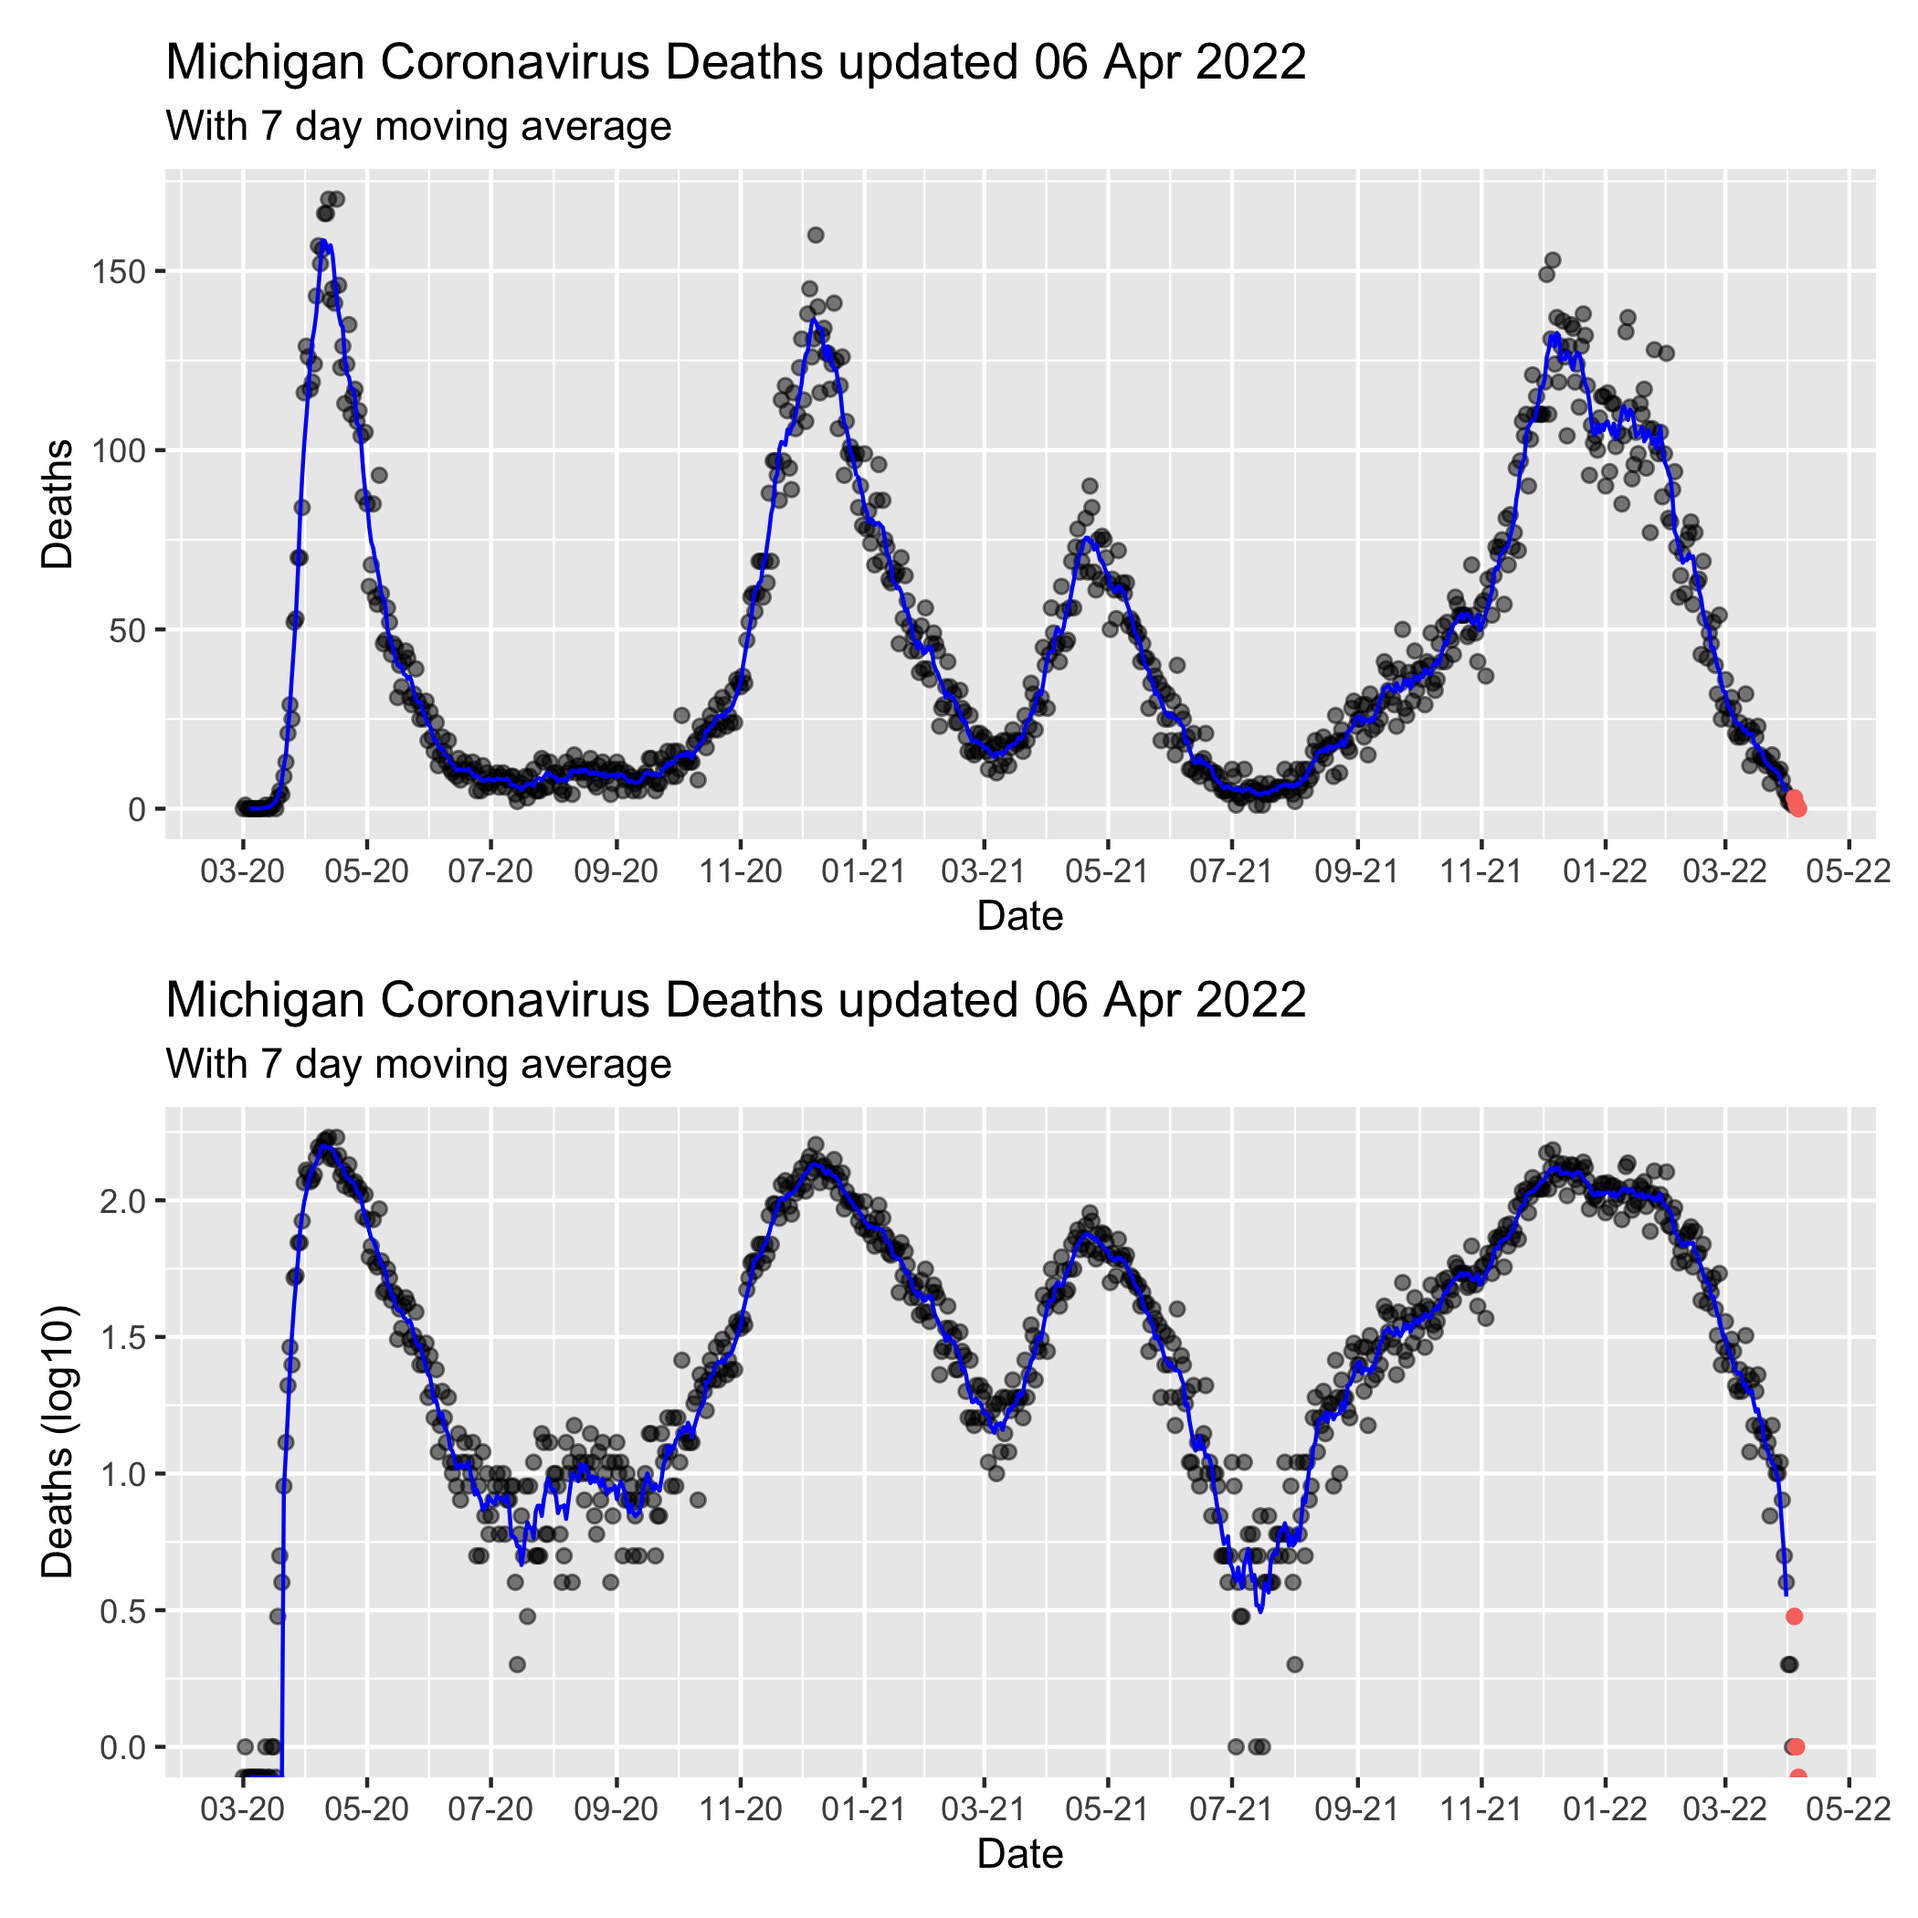
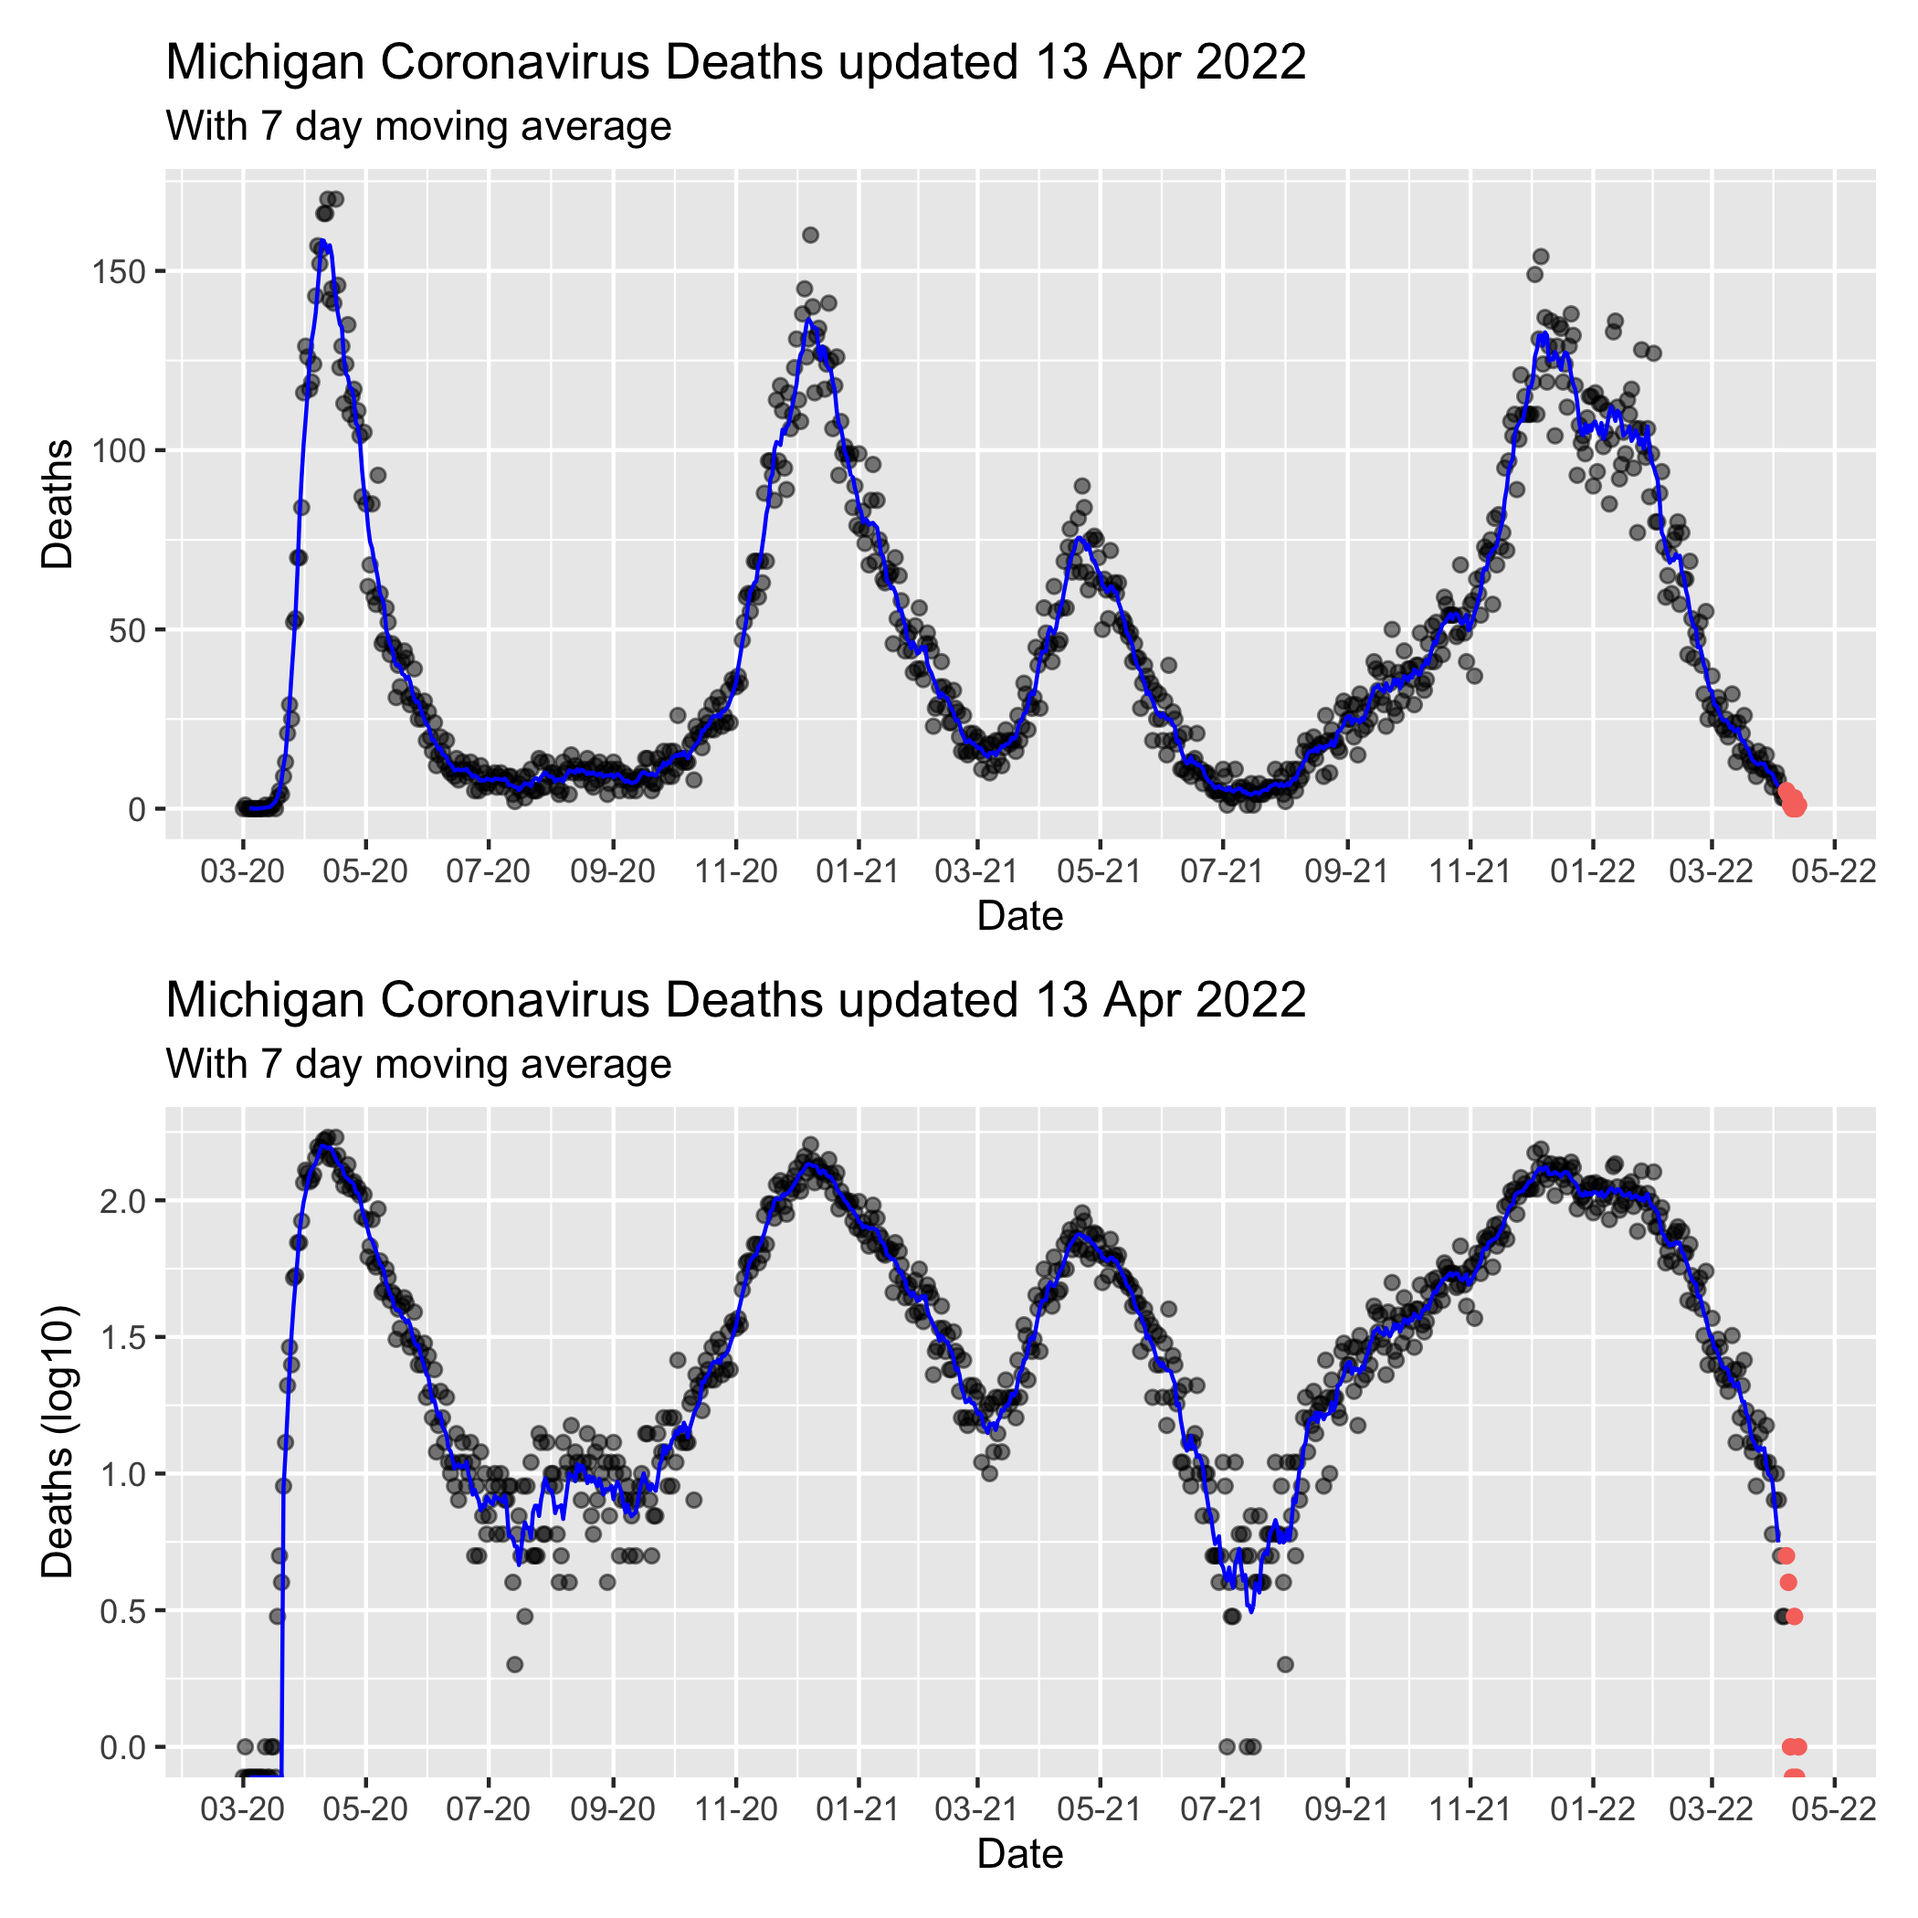
Apr-13 2022 23:44 update

diff --git a/MiCorona.md b/MiCorona.md
@@ -1,7 +1,7 @@
 Michigan COVID Data
 ================
 Adam D. DenHaan
-Apr 10, 2022
+Apr 13, 2022
 
 Get link for data:
 
@@ -49,11 +49,11 @@ mi_data.head()
     ## 4  Alcona 2020-03-05   Confirmed    0.0     0.0               0.0   
     ## 
     ##    Deaths.Cumulative                       Updated  
-    ## 0                0.0 2022-04-06 13:57:08.617000192  
-    ## 1                0.0 2022-04-06 13:57:08.617000192  
-    ## 2                0.0 2022-04-06 13:57:08.617000192  
-    ## 3                0.0 2022-04-06 13:57:08.617000192  
-    ## 4                0.0 2022-04-06 13:57:08.617000192
+    ## 0                0.0 2022-04-13 13:38:08.529999872  
+    ## 1                0.0 2022-04-13 13:38:08.529999872  
+    ## 2                0.0 2022-04-13 13:38:08.529999872  
+    ## 3                0.0 2022-04-13 13:38:08.529999872  
+    ## 4                0.0 2022-04-13 13:38:08.529999872
 
 ``` python
 max_date = max(mi_data["Updated"])
@@ -135,5 +135,5 @@ viz_function(mi_cases_by_day_exclusive, mi_cases_by_day_last4, Date, Deaths, ver
 
 ![](MiCorona_files/figure-gfm/viz2-1.png)<!-- -->
 
-Note that the last 3 days of data have been colored red on the graph, as
+Note that the last 7 days of data have been colored red on the graph, as
 they frequently change as more information becomes available.
